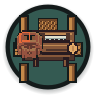
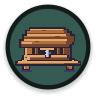
Replace the sawmill placeholder with a 3/4 hooded frame saw
The mill is now a 3x2 hooded frame saw on a 48x32 sheet, 30 px tall,
with a rising and falling sash. Placement, tests, the picker icon, and
feature docs follow the new footprint.

Evidence is in docs/evidence/sawmill-art/.

diff --git a/tools/ui/gen_hud_e4.py b/tools/ui/gen_hud_e4.py
@@ -295,9 +295,9 @@ def render_discs():
         disc(f'pick_{icon}', 24, icon, 1.72, toggle)
     sheet = OUT.parent.parent / 'structures' / 'sawmill_sheet.png'
     with Image.open(sheet) as sheet_image:
-        idle = sheet_image.convert('RGBA').crop((0, 0, 48, 48))
+        idle = sheet_image.convert('RGBA').crop((0, 0, 48, 32))
     disc('pick_sawmill', 24, '', 1.0, toggle,
-         overlay=idle.resize((72, 72), Image.Resampling.NEAREST))
+         overlay=idle.resize((72, 48), Image.Resampling.NEAREST))
     disc('run', 32, 'run', 1.45, basic)
     disc('attack', 40, 'sword', 1.40, ('idle', 'pressed', 'aim', 'disabled'))
     for part, states in [('base', ('normal', 'disabled')), ('knob', ('normal', 'active', 'disabled'))]:

diff --git a/docs/evidence/sawmill-art/REVIEW.md b/docs/evidence/sawmill-art/REVIEW.md
@@ -1,0 +1,17 @@
+# Hooded frame saw self-review
+
+1. **Projection.** The stepped timber hood fills the north row. Its lit top and south eave meet the front posts, sash, log, and trestle in the south row. The roof occupies 14 rows and the front occupies 16. The atlas mockup uses flat ground.
+2. **Light.** The roof courses, left post, end grain, and bench top catch the top-left light. The south fascia uses midtones, with darker timber on the right and under the eave.
+3. **Outline.** The silhouette uses a one-pixel `#2a2238` outline. The two contact marks are one pixel high in `#3d3a5c`. The down-facing flagbearer is the original sheet crop and keeps its `#141b1b` outline.
+4. **Palette.** All eight frames passed an exact RGB check against v1.1 and have binary alpha. The mill uses timber and steel, with wood-coloured chips.
+5. **Grid and scale.** The idle alpha bounds measure **44 × 30 px**, spanning x=2–45 and y=2–31 on the **48 × 32 px** canvas. The eight frames share those bounds. All review enlargements use nearest-neighbour at 4×.
+6. **Size.** The same-baseline lineup puts the mill at 30 px with the lumber mill and below the 31 px barracks. It is under two 16 px flagbearer sprites tall. Its open frame and 3×2 plot stay subordinate to the castle's 7×5 plot. The current castle walls are a 14 px ring and still need to grow.
+7. **Footprint, collision, and overhang.** The footprint is **3×2** at 16 px per tile. Invisible collision tiles occupy the five `TWT / T.T` structure cells and leave the south-center doorstep empty. Overhang is 0 px, with no collision outside the plot.
+8. **Y-sort reference.** The art's feet and contact row sit on the south edge of the plot. The intended sort line is that edge, 8 px below the installed sprite's south-middle tile-center anchor. The existing world draw order remains in effect and does not dynamically sort the mill against the hero.
+9. **Phone readability.** At 4× in a 480×270 logical view the hood, pale toothed blade and horizontal log remain distinct. The raised and lowered sash positions differ by four native pixels, with a widening kerf, scattered chips and a separating board at the bottom of the stroke.
+10. **Process.** Reviewed the native frames, 4× idle and work strip, and the same-baseline lineup. The atlas terrain mockup puts the mill beside the hero, castle and both pine sizes. The seven-frame working GIF loops at 130 ms per frame.
+
+The live seed 4 captures show the idle pose and both ends of the working stroke
+next to a pine. The camera at 1.0 shows the full castle and the hero with the
+mill at the same integer scale. Pixel comparison confirmed that each opaque
+sprite pixel covers a uniform 4 × 4 block in the idle and working captures.

diff --git a/docs/evidence/sawmill-art/README.md b/docs/evidence/sawmill-art/README.md
@@ -1,0 +1,30 @@
+# Hooded frame saw evidence
+
+The native art is 48 × 32 px per frame. Idle and each of the seven working
+frames measure 44 × 30 px through the alpha bounds. The 3×2 layout leaves the
+south-center doorstep empty.
+
+- [Native frames](native), [4× idle](idle_x4.png),
+  [4× work strip](work_strip_x4.png), and [working loop](working_loop.gif).
+  Work frame 1 holds the raised idle pose for the turnaround. The GIF shows
+  the seven working frames at 130 ms each.
+- [Scale lineup](scale_lineup_x4.png) and [atlas terrain mockup](island_mockup_x4.png).
+  The mill matches the lumber mill's 30 px height and sits below the 31 px
+  barracks. The castle has the largest plot at 7×5. Its 14 px wall ring
+  still needs to grow.
+- [Placed idle](placed_idle.png) and [idle detail](placed_idle_crop.png).
+  A live seed 4 match placed the sawmill through Buildings directly north of
+  a pine. Playback was held at frame 0 for this capture.
+- [Raised and lowered sash](working_frames_in_game.png). These are unscaled
+  crops of working frames 1 and 3 after playback resumed.
+- [In-game scale](scale_in_game.png). The whole starting castle, mill, hero,
+  and pine share the 1920 × 1080 capture. Camera zoom was held at 1.0, which
+  draws each native pixel as a 4 × 4 block.
+
+The live images were captured with the verify-flagoria display launcher under
+Xvfb. The placed idle and working crops match the source sprite's opaque pixels
+exactly at 4×. See the [ten-step self-review](REVIEW.md) for the art checks.
+
+The existing placement and two-player animation drives also passed under Xvfb.
+The two-player run showed the joiner placing the mill, the host seeing it work,
+and the host reloading the idle mill after the joiner left.

diff --git a/.cursor/skills/verify-flagoria/features/sawmill-animation.md b/.cursor/skills/verify-flagoria/features/sawmill-animation.md
@@ -6,14 +6,15 @@ Source: Scripts/mechanics/structures/structure_placer.gd
 Source: Scripts/mechanics/building/build_preview.gd
 
 The Buildings picker and preview use the idle pose. The placed sawmill uses a
-transparent 48 × 48 sprite over the generated ground. When the sawmill can
-deliver wood, the blade strokes, the wheel turns, and a positional wood-cutting
-sound plays once per loop. A disconnected owner leaves the still pose and
-silences the sound. Demolition removes the artwork and sound together.
+transparent 48 × 32 sprite over the generated ground. When the sawmill can
+deliver wood, the sash and blade stroke through the log, chips fly, a plank
+starts to separate, and a positional wood-cutting sound plays once per loop.
+A disconnected owner leaves the still pose and silences the sound.
+Demolition removes the artwork and sound together.
 
 - The display drive starts a localhost joiner, opens Buildings and places a
-  sawmill via the preview. Inspect both idle picker and preview, the extended
-  blade and sawdust during production, and the joiner's view of that same mill.
+  sawmill via the preview. Inspect both idle picker and preview, the raised
+  and lowered sash during production, and the joiner's view of that same mill.
   The host then captures the idle pose after the joiner leaves and again after
   saving and reloading through Worlds.
 - `test_sawmill_animation_lifecycle` checks footprint alignment, invisible

diff --git a/.cursor/skills/verify-flagoria/features/README.md b/.cursor/skills/verify-flagoria/features/README.md
@@ -81,7 +81,7 @@ Maintained recipes for proving user-facing and CI-facing behavior. Read this ind
 - [Demolish construction](./demolish-construction.md)
 - [Build barracks](./build-barracks.md) — `barracks.txt` for 20 wood and 10 stone from the build picker, save/reload and multiplayer sync (#556).
 - [Place a mine](./place-mine.md) — a 3×3 mine costs 15 wood and needs an orthogonally adjacent live rock (#722).
-- [Place a sawmill](./place-sawmill.md) — a 3×3 sawmill costs 15 stone and needs an orthogonally adjacent live tree or pine (#749).
+- [Place a sawmill](./place-sawmill.md) — a 3×2 sawmill costs 15 stone and needs an orthogonally adjacent live tree or pine (#749).
 - [Produce wood at placed sawmills](./sawmill-production.md) — each sawmill credits its owner one wood per minute (#750).
 - [Sawmill animation and sound](./sawmill-animation.md) — the placed sawmill strokes its blade and plays a positional wood-cutting sound while producing (#751).
 - [Produce stone at placed mines](./mine-production.md) — each mine credits its owner one stone per minute (#723).

diff --git a/.cursor/skills/verify-flagoria/features/place-sawmill.md b/.cursor/skills/verify-flagoria/features/place-sawmill.md
@@ -11,12 +11,12 @@ Source: Scripts/mechanics/tuning/tuning.gd
 Source: Scripts/ui/hud_tool_row.gd
 Source: Scripts/world/TileMap.gd
 
-Open Buildings and select **Sawmill** to start a 3×3 preview at screen centre.
+Open Buildings and select **Sawmill** to start a 3×2 preview at screen centre.
 Drag to a reachable clear site whose anchor touches a live tree or pine
 orthogonally. The ready preview shows **15 stone**. A diagonal tree, bush,
 stump or absent tree turns it red and shows **not adjacent to a tree**.
 A clear site with a live neighbour and too little stone shows **not enough stone**.
-The preview and timber placeholder leave the generated ground visible.
+The preview and hooded mill leave the generated ground visible.
 
 The buyer owns the sawmill and spends stone only. The host checks the current
 tree when processing a request. A placed sawmill survives chopping and returns
